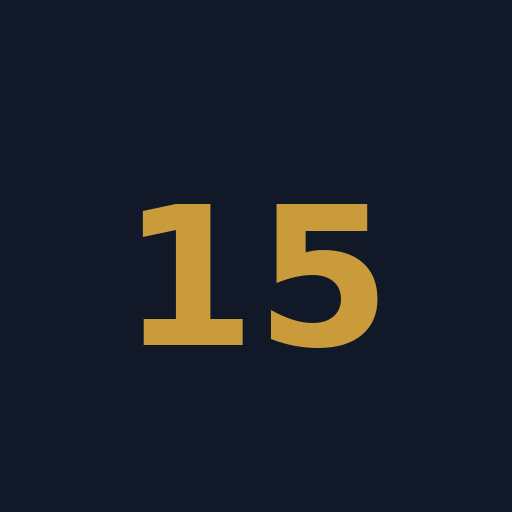
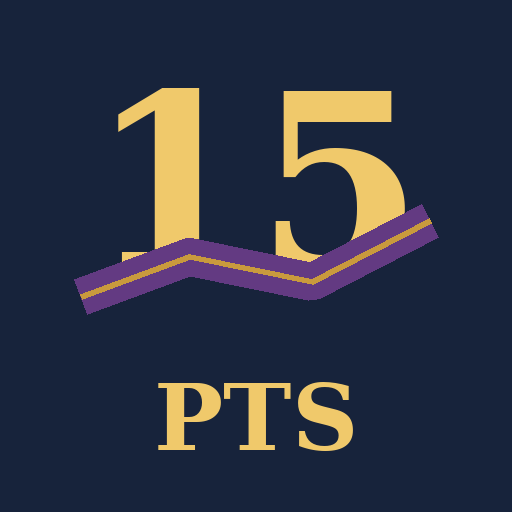
Add files via upload
15PTS v4.2.1

Changed region(s): [[0.125, 0.1562, 0.875, 0.6875], [0.3125, 0.7188, 0.6875, 0.9062]]

diff --git a/styles.css b/styles.css
@@ -9,3 +9,34 @@ input,select{box-sizing:border-box;min-height:46px;height:46px;}
 input[type="date"]{-webkit-appearance:auto;appearance:auto;display:block;width:100%;min-width:0;height:46px;min-height:46px;margin:0;padding:10px 12px;line-height:24px;border:1px solid #d1d5db;border-radius:10px;background:#fff;color:var(--ink);font:inherit;font-size:15px;}
 input[type="date"]::-webkit-date-and-time-value{text-align:left;margin:0;min-height:24px;line-height:24px;}
 footer{text-align:center;}
+
+/* 15PTS v4.2.1 visual identity — presentation only; application structure unchanged. */
+:root{--ink:#17233B;--muted:#687181;--paper:#F7F5F0;--card:#FFFFFF;--gold:#C99A3D;--purple:#633A82;--blue:#315C9B;--line:#DDD8CE;--red:#A3262A}
+body{background:var(--paper);color:var(--ink)}
+header{background:linear-gradient(135deg,#101c31 0%,#17233B 62%,#203456 100%);padding-top:calc(18px + env(safe-area-inset-top));box-shadow:0 2px 12px #17233b24}
+.brand{display:flex;align-items:center;gap:5px;color:#F0C96B;font-family:Georgia,"Times New Roman",serif;text-shadow:0 1px 0 #6f4d13;font-size:31px}
+.brandPTS{letter-spacing:-1px}.ribbonMark{position:relative;display:inline-flex;align-items:center;height:35px}.brand15{position:relative;z-index:2;font-weight:800;line-height:1}.ribbonMark i{position:absolute;left:2px;right:-3px;top:18px;height:7px;background:linear-gradient(90deg,#633A82,#8A55AA 45%,#633A82);border-top:1px solid #d7b65e;border-bottom:1px solid #d7b65e;transform:skewX(-23deg) rotate(-7deg);border-radius:8px;z-index:1}.tag{color:#e8e3d8}
+.tabs{background:rgba(247,245,240,.96)}.tab.active{color:var(--ink);border-bottom-color:var(--gold)}
+.hero15{color:var(--gold);font-family:Georgia,"Times New Roman",serif}.eyebrow{color:var(--purple)}
+.card,.record,.dogCard,.empty,.stat{border-color:var(--line);box-shadow:0 3px 14px #17233b0a}
+.card h2,.sectionHead h1,.hero h1{color:var(--ink)}
+input,select,.modalCard textarea{border-color:#d4d8df;color:var(--ink)}
+.primary{background:var(--ink);border-color:var(--ink);color:#f4cb69}.secondary{border-color:var(--ink);color:var(--ink)}
+.awardChip{border-color:#cfd3da;background:#fff;color:var(--ink)}.awardChip.selected{background:var(--purple);border-color:var(--purple);color:#fff;box-shadow:0 2px 8px #633a8233}.awardChip.selected.terminal{background:#6d2740;border-color:#6d2740}
+.result{background:linear-gradient(135deg,#17233B,#202f4e);grid-template-columns:78px 58px 1fr;gap:12px;border:1px solid #2d4267;box-shadow:0 7px 22px #17233b24}.result>div:first-child{border-right:1px solid #53617a}.result strong{color:#f0c96b}.result b,.result small{margin-left:0}.resultAward{display:flex;align-items:center;justify-content:center}
+.pill.major{background:#f4e0a5;color:#6d4a09;border:1px solid #dfbd5c}.progress i{background:linear-gradient(90deg,#C99A3D,#e0b44e)}
+.verifyLink{border-bottom-color:var(--gold)}footer strong{color:var(--ink)}
+.recordTopVisual{display:flex;gap:12px;align-items:flex-start;min-width:0}.recordMain{min-width:0}.historyItem{position:relative;padding-left:48px;min-height:48px}.historyItem .awardVisual{position:absolute;left:0;top:10px}
+.awardVisual{display:inline-flex;align-items:center;justify-content:center;flex:0 0 auto}.recordAward{width:42px;height:54px}.historyAward{width:34px;height:42px}.resultAward .awardVisual{width:48px;height:58px}
+.ribbonIcon,.rosetteIcon{position:relative;display:block;filter:drop-shadow(0 2px 2px #17233b22)}
+.ribbonIcon{width:26px;height:47px;border-radius:3px 3px 1px 1px;background:#633A82;border:1px solid #4e286b}.ribbonIcon:after{content:"";position:absolute;left:4px;right:4px;bottom:-1px;height:11px;background:var(--paper);clip-path:polygon(0 100%,50% 42%,100% 100%,100% 100%,0 100%)}
+.ribbonIcon.rwd,.ribbonIcon.rwb{background:linear-gradient(90deg,#633A82 0 32%,#fff 32% 68%,#633A82 68%)}
+.ribbonIcon.bow{background:linear-gradient(90deg,#315C9B 0 32%,#fff 32% 68%,#315C9B 68%)}
+.ribbonIcon.bob{background:linear-gradient(90deg,#633A82 0 48%,#C99A3D 48% 62%,#633A82 62%)}
+.ribbonIcon.bos{background:linear-gradient(90deg,#c62828 0 32%,#fff 32% 68%,#c62828 68%)}
+.ribbonIcon.select{background:linear-gradient(90deg,#7ec8e3 0 32%,#fff 32% 68%,#7ec8e3 68%);border-color:#6caec6}
+.ribbonIcon.ohbob{background:#7b1f45;border-color:#601633}
+.rosetteIcon{width:38px;height:38px;border-radius:50%;background:#315C9B;border:7px solid #315C9B;box-shadow:inset 0 0 0 2px #f2c75c}.rosetteIcon:before,.rosetteIcon:after{content:"";position:absolute;top:28px;width:12px;height:24px;background:inherit;clip-path:polygon(0 0,100% 0,85% 100%,50% 77%,15% 100%)}.rosetteIcon:before{left:5px;transform:rotate(7deg)}.rosetteIcon:after{right:5px;transform:rotate(-7deg)}
+.rosetteIcon.g1{background:#315C9B;border-color:#315C9B}.rosetteIcon.g2{background:#c62828;border-color:#c62828}.rosetteIcon.g3{background:#e0b51f;border-color:#e0b51f}.rosetteIcon.g4{background:#f8f8f4;border-color:#e8e6df;box-shadow:inset 0 0 0 2px #C99A3D}.rosetteIcon.bis{width:44px;height:44px;background:conic-gradient(#c62828 0 33%,#fff 33% 66%,#315C9B 66%);border:7px solid transparent;box-shadow:inset 0 0 0 3px #C99A3D}.rosetteIcon.rbis{width:42px;height:42px;background:#efe7d2;border-color:#C99A3D}.rosetteIcon.ohg1{background:#f02a9d;border-color:#f02a9d}.rosetteIcon.ohg2{background:#61c52d;border-color:#61c52d}.rosetteIcon.ohg3{background:#1599a6;border-color:#1599a6}.rosetteIcon.ohg4{background:#f3e7c6;border-color:#eadab1}.rosetteIcon.ohrbis{background:#82d66b;border-color:#82d66b}.rosetteIcon.ohbis{background:#26bfc5;border-color:#26bfc5}
+.releaseStamp{position:fixed;right:8px;bottom:8px;z-index:4;background:#17233B;color:#f0c96b;border:1px solid #C99A3D;border-radius:999px;padding:4px 7px;font-size:8px;font-weight:800;letter-spacing:.5px;opacity:.78;pointer-events:none}
+@media(max-width:560px){.result{grid-template-columns:64px 48px 1fr;gap:9px}.resultAward .awardVisual{transform:scale(.88)}.brand{font-size:28px}}

diff --git a/index.html b/index.html
@@ -2,7 +2,7 @@
 <header><div class="brand"><span class="ribbonMark" aria-hidden="true"><span class="brand15">15</span><i></i></span><span class="brandPTS">PTS</span><sup>™</sup></div><div class="tag">CONFORMATION POINT TRACKER</div></header>
 <main><nav class="tabs"><button class="tab active" data-tab="calc">Calculate</button><button class="tab" data-tab="records">Records</button><button class="tab" data-tab="dogs">Dogs</button></nav>
 <section id="calc" class="panel active"><div class="hero"><div><div class="eyebrow">2026 POINT SCHEDULE</div><h1>Track the whole win.</h1><p>Record the competitor, actual entry and each award earned. 15PTS calculates the stacked awards and records the result.</p></div><div class="hero15">15</div></div>
-<div class="notice">15PTS v4.2 is a test build using the 2026 division structure. Only point-schedule rows explicitly loaded as verified should be relied upon without checking the published schedule.</div>
+<div class="notice">15PTS v4.2.1 is a test build using the 2026 division structure. Only point-schedule rows explicitly loaded as verified should be relied upon without checking the published schedule.</div>
 <form id="calcForm">
 <div class="card"><h2>Dog details</h2><div class="grid two"><label>Registered name<input id="dogName" required placeholder="Registered name"></label><label>AKC registration #<input id="regNo" required placeholder="NP00000000"></label><label>Sex<select id="sex"><option value="dog">Dog</option><option value="bitch">Bitch</option></select></label><label>Status at this show<select id="status"><option value="class">Class / Non-Champion</option><option value="champion">Champion (CH)</option><option value="grandchampion">Grand Champion (GCH)</option></select></label><label>Breed<select id="breed"></select></label><label>Handler<input id="handler" placeholder="Handler name"></label><label class="check nohsCheck"><input id="nohs" type="checkbox"> National Owner-Handled Series (NOHS)</label><label>Armband #<input id="armband" inputmode="numeric" placeholder="17"></label></div></div>
 <div class="card"><h2>Event</h2><div class="grid two"><label>Show / kennel club<input id="showName" placeholder="Kennel Club name"></label><label class="dateField">Date<input id="showDate" type="date"></label><label>Event state / jurisdiction<select id="eventState"></select></label><label>AKC division<input id="divisionDisplay" readonly></label><label>Judge<input id="judge" placeholder="Judge name"></label><label>Superintendent / Show Secretary<select id="superintendent"></select></label></div><div id="otherSuperWrap" class="subfield hidden"><label>Name<input id="otherSuper" placeholder="Show secretary or superintendent"></label></div><div id="scheduleDateWarning" class="hint warn hidden"></div></div>
@@ -15,4 +15,4 @@
 <section id="dogs" class="panel"><div class="sectionHead"><div><div class="eyebrow">DOGS</div><h1>Progress</h1></div></div><div id="dogList"></div></section></main>
 <footer><strong>© 2026 Ryan Busch. All rights reserved.</strong><div><b>15PTS™</b> · <button id="disclaimerBtn" class="footerLink">Disclaimer &amp; Important Information</button></div></footer>
 <div id="modal" class="modal hidden"><div class="modalCard"><button id="modalClose" class="x">×</button><div id="modalBody"></div></div></div>
-<script src="points-data.js"></script><script src="app.js"></script></body></html>
+<script src="points-data.js"></script><script src="app.js"></script><div class="releaseStamp">v4.2.1</div></body></html>

diff --git a/app.js b/app.js
@@ -108,7 +108,7 @@ window.verifyRecord=id=>{let r=findRec(id),cur=r.verification||effective(r);open
 window.amendRecord=id=>{let r=findRec(id),e=effective(r);openModal(`<div class="eyebrow">AMEND TRACKING</div><h2>${esc(r.dog)}</h2><p>The original calculation remains unchanged. This amendment becomes the provisional tracked result unless/until a verified result exists.</p><label>Amended points<input id="aPoints" type="number" min="0" max="5" value="${e.points}"></label><label class="check"><input id="aMajor" type="checkbox" ${e.major?'checked':''}> Major</label><label>Reason / note<textarea id="aNote" placeholder="Example: corrected entry count"></textarea></label><button class="primary modalSave" id="saveAmend">Save amendment</button>`);$('#saveAmend').onclick=()=>{r.amendments=r.amendments||[];r.amendments.push({points:+$('#aPoints').value,major:$('#aMajor').checked,note:$('#aNote').value.trim(),date:Date.now()});replaceRec(r);closeModal()}};
 window.del=id=>{if(confirm('Delete this saved result?')){saveRecords(records().filter(r=>r.id!==id));renderAll()}};
 function openModal(html){$('#modalBody').innerHTML=html;$('#modal').classList.remove('hidden')}function closeModal(){$('#modal').classList.add('hidden')}$('#modalClose').onclick=closeModal;$('#modal').onclick=e=>{if(e.target===$('#modal'))closeModal()};
-$('#exportBtn').onclick=()=>{let blob=new Blob([JSON.stringify(records(),null,2)],{type:'application/json'}),a=document.createElement('a');a.href=URL.createObjectURL(blob);a.download='15PTS-v4.1-records.json';a.click();URL.revokeObjectURL(a.href)};
+$('#exportBtn').onclick=()=>{let blob=new Blob([JSON.stringify(records(),null,2)],{type:'application/json'}),a=document.createElement('a');a.href=URL.createObjectURL(blob);a.download='15PTS-v4.2.1-records.json';a.click();URL.revokeObjectURL(a.href)};
 function esc(s=''){return String(s).replace(/[&<>"']/g,m=>({'&':'&amp;','<':'&lt;','>':'&gt;','"':'&quot;',"'":'&#39;'}[m]))}
 $('#disclaimerBtn').onclick=()=>openModal(`<div class="eyebrow">15PTS™</div><h2>Disclaimer & Important Information</h2><p>15PTS is an independent exhibitor tool and is not affiliated with, endorsed by, or sponsored by the American Kennel Club.</p><p>Point calculations, championship tracking, competition counts, division assignments, point schedules, and other information provided by 15PTS are intended for informational and personal record-keeping purposes only. Calculations and information are not guaranteed to be accurate, complete, or current.</p><p>Results calculated by 15PTS should not be considered official confirmation of championship points, Grand Championship points, majors, titles, NOHS points, or other American Kennel Club records.</p><p>Exhibitors should verify applicable point schedules, competition counts, show results, championship points, titles, and other information against the appropriate official records.</p><p>© 2026 Ryan Busch. All rights reserved.</p>`);
 renderEntry();renderAwards(true);updateDivision();renderAll();if('serviceWorker'in navigator)navigator.serviceWorker.register('./sw.js');

diff --git a/sw.js b/sw.js
@@ -1,1 +1,1 @@
-const CACHE='15pts-v4-2-20261003';const ASSETS=['./','./index.html','./styles.css','./app.js','./points-data.js','./manifest.webmanifest','./icon-192.png','./icon-512.png'];self.addEventListener('install',e=>e.waitUntil(caches.open(CACHE).then(c=>c.addAll(ASSETS)).then(()=>self.skipWaiting())));self.addEventListener('activate',e=>e.waitUntil(caches.keys().then(keys=>Promise.all(keys.filter(k=>k!==CACHE).map(k=>caches.delete(k)))).then(()=>self.clients.claim())));self.addEventListener('fetch',e=>e.respondWith(fetch(e.request).then(r=>{let x=r.clone();caches.open(CACHE).then(c=>c.put(e.request,x));return r}).catch(()=>caches.match(e.request))));
+const CACHE='15pts-v4-2-1-20261003';const ASSETS=['./','./index.html','./styles.css','./app.js','./points-data.js','./manifest.webmanifest','./icon-192.png','./icon-512.png'];self.addEventListener('install',e=>e.waitUntil(caches.open(CACHE).then(c=>c.addAll(ASSETS)).then(()=>self.skipWaiting())));self.addEventListener('activate',e=>e.waitUntil(caches.keys().then(keys=>Promise.all(keys.filter(k=>k!==CACHE).map(k=>caches.delete(k)))).then(()=>self.clients.claim())));self.addEventListener('fetch',e=>e.respondWith(fetch(e.request).then(r=>{let x=r.clone();caches.open(CACHE).then(c=>c.put(e.request,x));return r}).catch(()=>caches.match(e.request))));
